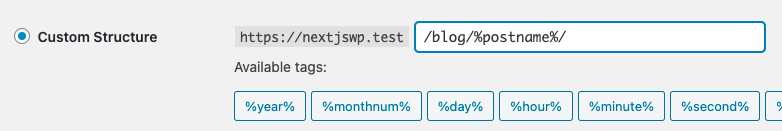
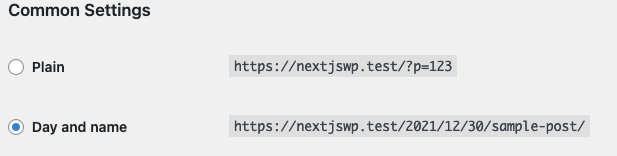
Update docs

diff --git a/docs/docs/backend/index.md b/docs/docs/backend/index.md
@@ -111,12 +111,12 @@ You should now see your Homepage, Blog, and 404 page like so:
 
 ### Step 6: Set Permalinks
 
-In the WordPress Dashboard, navigate to `Settings -> Permalinks -> Custom Structure`
+In the WordPress Dashboard, navigate to `Settings -> Permalinks`
 
-1. Enter the follow structure:
+1. Select the `Day and name` structure:
 
 ```text
-/blog/%postname%
+/%year%/%monthnum%/%day%/%postname%/
 ```
 
 2. Save the settings.
